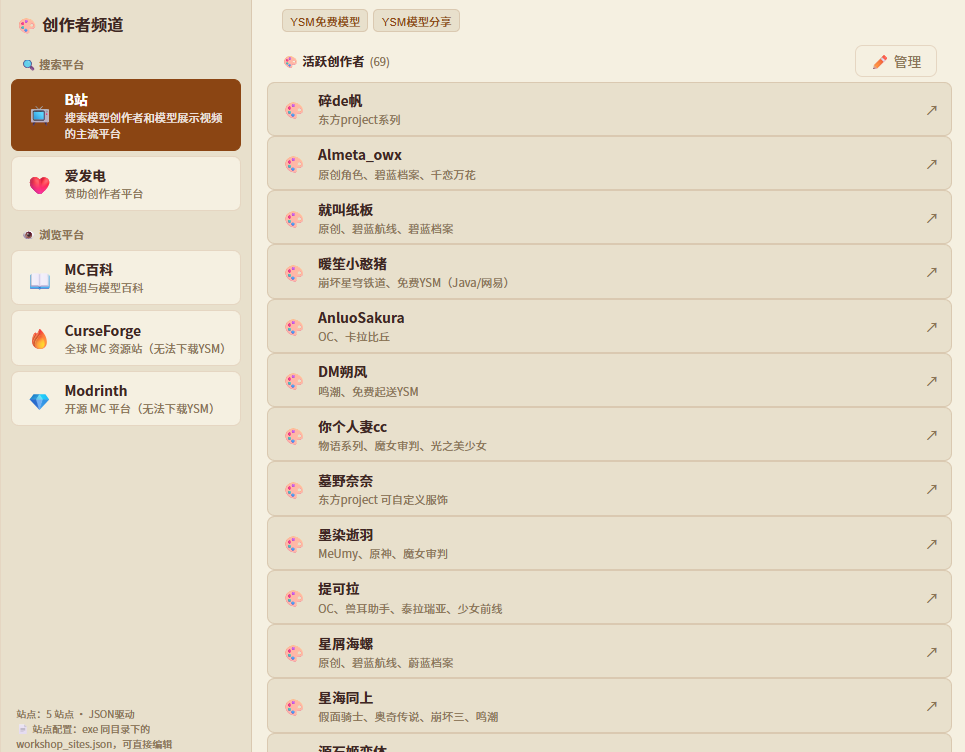
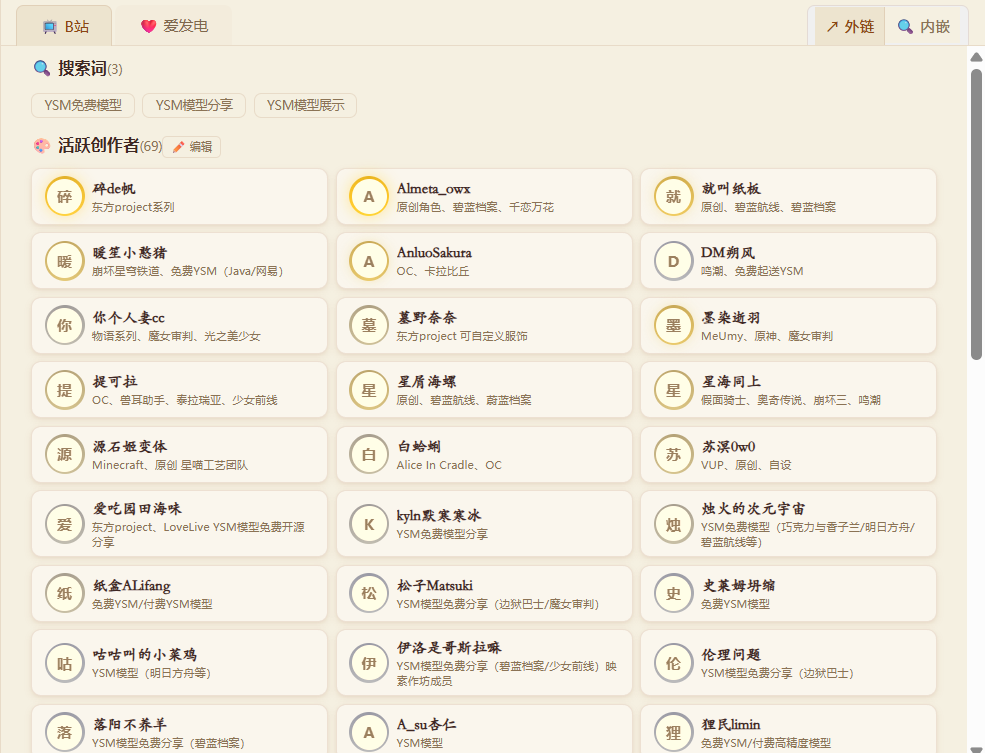
1.4.5

diff --git a/frontend/js/components/app-content/workshop-site-view.js b/frontend/js/components/app-content/workshop-site-view.js
@@ -92,28 +92,41 @@ export function renderSiteView(site, ctx) {
     parts.push(
       '<div style="display:flex;flex-wrap:wrap;gap:6px;width:100%">' +
         creators
-          .map((cr) => {
+          .map((cr, _, arr) => {
             const isGitHub = cr.type && cr.type.includes("github");
             const repoParts = isGitHub ? cr.name.split("/") : null;
             const hasRepo = isGitHub && repoParts && repoParts.length >= 2;
             const authorCount = authorCountMap[cr.name] || 0;
-            const avatarCls =
-              authorCount >= 5
-                ? " cr-avatar-gold"
-                : authorCount >= 2
-                  ? " cr-avatar-silver"
-                  : "";
+            // 渐变边框：饱和度随作品数变化
+            const maxCount = Math.max(
+              1,
+              ...arr.map((c) => authorCountMap[c.name] || 0),
+            );
+            const ratio =
+              maxCount > 0 ? Math.min(authorCount / maxCount, 1) : 0;
+            const lerp = (a, b, t) => Math.round(a + (b - a) * t);
+            const r = lerp(168, 240, ratio); // A8→F0
+            const g = lerp(168, 192, ratio); // A8→C0
+            const b = lerp(168, 48, ratio); // A8→30
+            const borderGrad = `conic-gradient(from 0deg, rgb(${r - 30},${g - 30},${b - 20}), rgb(${r},${g},${b}) 180deg, rgb(${r - 30},${g - 30},${b - 20}))`;
+            const glow =
+              ratio > 0.5
+                ? `0 0 ${6 + ratio * 6}px rgba(${r},${g},${b},${0.2 + ratio * 0.3})`
+                : "none";
             return (
               '<div class="gh-card" style="min-width:200px;max-width:280px;flex:1 1 200px;cursor:pointer" data-name="' +
               esc(cr.name) +
               '" title="搜索: ' +
               esc(cr.name) +
               '">' +
-              '<div class="cr-avatar' +
-              avatarCls +
+              '<div class="cr-avatar-wrap" style="background:' +
+              borderGrad +
+              ";border-radius:50%;padding:2px;display:inline-flex;flex-shrink:0;box-shadow:" +
+              glow +
               '">' +
+              '<div class="cr-avatar" style="border:none;box-shadow:none;width:28px;height:28px;font-size:12px">' +
               (cr.name ? esc(cr.name.charAt(0)).toUpperCase() : "?") +
-              "</div>" +
+              "</div></div>" +
               '<div class="gh-card-body">' +
               '<div class="gh-card-label name">' +
               esc(cr.name) +

diff --git a/frontend/js/components/app-content/content-css.js b/frontend/js/components/app-content/content-css.js
@@ -289,12 +289,13 @@ export const contentCSS = `
 .gh-card.active { border-color:var(--accent); background:var(--accent); color:#fff; box-shadow:var(--card-shadow-hover, none); }
 .gh-card .name { font-size:var(--fs-md); font-weight:var(--fw-bold); color:var(--txt); font-family:var(--font-display); overflow:hidden;text-overflow:ellipsis;white-space:nowrap; }
 .gh-card .name + .meta { margin-top:1px; font-size:var(--fs-xs); color:var(--muted); }
-.cr-avatar { width:32px;height:32px;border-radius:50%;flex-shrink:0;display:flex;align-items:center;justify-content:center;font-size:13px;font-weight:700;color:#8b7355;background:#ede4cf;border:2px solid #d4c5a9;transition:all .25s ease; }
-.cr-avatar-gold { border-color:#d4a017;box-shadow:0 0 6px rgba(212,160,23,.3); }
-.cr-avatar-silver { border-color:#a8a8a8;box-shadow:0 0 4px rgba(168,168,168,.2); }
+.cr-avatar { width:28px;height:28px;border-radius:50%;flex-shrink:0;display:flex;align-items:center;justify-content:center;font-size:12px;font-weight:700;color:#8b7355;background:#ede4cf;transition:all .25s ease; }
+.cr-avatar-wrap { display:inline-flex;flex-shrink:0;border-radius:50%;padding:2px;transition:all .25s ease;animation:breathe 3s ease-in-out infinite;will-change:filter; }
+@keyframes breathe { 0%,100%{filter:brightness(1)} 50%{filter:brightness(1.18)} }
+@keyframes breathe-subtle { 0%,100%{filter:brightness(1)} 50%{filter:brightness(1.1)} }
+.health-ring { animation:breathe-subtle 4s ease-in-out infinite;will-change:filter; }
 .gh-card:hover .cr-avatar { transform:rotate(-8deg) scale(1.05); }
-.gh-card:hover .cr-avatar-gold { border-color:#f0c030;box-shadow:0 0 12px rgba(212,160,23,.4); }
-.gh-card:hover .cr-avatar-silver { border-color:#c0c0c0;box-shadow:0 0 8px rgba(168,168,168,.3); }
+.gh-card:hover .cr-avatar-wrap { transform:rotate(-4deg) scale(1.08); }
 .gh-card-icon { font-size:16px; width:24px; text-align:center; flex-shrink:0; }
 .gh-card-body { flex:1; min-width:0; }
 .gh-card-label { font-size:var(--fs-base); font-weight:600; color:var(--txt); }
@@ -452,7 +453,7 @@ export const contentCSS = `
 .gh-cancel-btn { width:20px; height:20px; border-radius:50%; border:none; background:rgba(128,128,128,.15); color:var(--muted); cursor:pointer; font-size:var(--fs-base); flex-shrink:0; display:flex; align-items:center; justify-content:center; transition:background .15s; }
 .gh-cancel-btn:hover { background:rgba(128,128,128,.3); }
 .gh-progress-bar-wrap { margin-top:3px; height:4px; border-radius:2px; background:var(--bd); overflow:hidden; }
-.gh-progress-fill { height:100%; width:0%; border-radius:2px; background:var(--accent); transition:width .2s; box-shadow:0 0 4px var(--accent); }
+.gh-progress-fill { height:100%; width:0%; border-radius:2px; background:var(--accent); transition:width .2s; box-shadow:0 0 4px var(--accent); animation:breathe-subtle 4s ease-in-out infinite;will-change:filter,box-shadow; }
 .gh-progress-box { padding:24px 12px; text-align:center; }
 .gh-progress-label { font-size:var(--fs-sm); color:var(--muted); margin-bottom:8px; }
 `;

diff --git a/README-the project's development journey.md b/README-the project's development journey.md
@@ -14,7 +14,7 @@
 | [第一回](#第一回--appgo-的烦恼)     | app.go 的烦恼       | Go Binding 入口 shutdown panic      |
 | [第二回](#第二回--事件总线的密信)   | 事件总线的密信      | `data-name` vs `data-path` 路径分离 |
 | [第三回](#第三回--影子内阁的阴谋)   | 影子内阁的阴谋      | ESM 统一 + `public/js/` 旧副本混战  |
-| [第四回](#第四回--ban隐之谜)     | .ban 封印之谜       | 隐藏开关的字段名歧义                |
+| [第四回](#第四回--ban隐之谜)        | .ban 封印之谜       | 隐藏开关的字段名歧义                |
 | [第五回](#第五回--老黄牛的坚守)     | 老黄牛的坚守        | `ImportModelFile` 不覆盖的重名处理  |
 | [第六回](#第六回--硬链接的异地恋)   | 硬链接的异地恋      | 硬链接 vs 复制安装的边界逻辑        |
 | [第七回](#第七回--文件夹开光的悖论) | 文件夹开光的悖论    | 文件夹导入 `CreateDir` 初始化时机   |
@@ -2008,6 +2008,186 @@ YSM 头部解析修复 + 同步状态修复 + 预设搜索。
 明天呢？
 
 明天——谁知道呢。但我们已经把今天的教训写下来了。
+
+---
+
+### 第九章 · 卡牌大师
+
+| 章节                                    | 标题               | 对应真实事件                                |
+| --------------------------------------- | ------------------ | ------------------------------------------- |
+| [第四十回](#第四十回--css-变量迷踪)     | CSS 变量迷踪       | `adoptedStyleSheets` 不继承 `var(--accent)` |
+| [第四十一回](#第四十一回--卡牌大师)     | 卡牌大师           | 设置页全面卡片化                            |
+| [第四十二回](#第四十二回--关于页的诞生) | 关于页的诞生       | 全新的「ℹ️ 关于」标签页                     |
+| [第四十三回](#第四十三回--按钮的新衣)   | 按钮的新衣         | `.btn` CSS 类体系 + 主题色统一              |
+| [后记九](#后记九--让设置页不再是仓库)   | 让设置页不再是仓库 | v1.4.5 封板                                 |
+
+---
+
+## 第四十回 · CSS 变量迷踪
+
+**对应真实事件**：2026-06-11，`adoptedStyleSheets` 中 `var(--accent)` 不继承
+
+事情要从一个简单的需求说起——给按钮上色。
+
+"按钮没有主题色。"用户说。
+
+这是个合理的需求。按钮用的是浏览器默认样式，灰色背景、黑色文字，放在赛博霓虹主题里像一块补丁。只需要加一行 CSS：
+
+```css
+.btn.accent {
+  color: var(--accent);
+}
+```
+
+变数出在 `var(--accent)` 上。
+
+在前端世界里，CSS 自定义属性（Custom Properties）会沿着 DOM 树自然继承。你在 `:root` 上定义 `--accent: #66d9ef`，子元素里的 `var(--accent)` 就能取到这个值。这是 CSS 规范写了的事情。
+
+但"规范写了"和"浏览器做到了"之间，隔着一层 Shadow DOM。
+
+我们的应用用了 Web Components + Shadow DOM，并且用了 `adoptedStyleSheets`——这是 Chrome 73 引入的新 API，允许 JavaScript 直接把一个 CSSStyleSheet 对象关联到 Shadow Root 上，比传统的 `<style>` 标签更高效。
+
+高效是高效，但它有一个致命的坑：**`adoptedStyleSheets` 里的 `var()` 不继承文档的 CSS 自定义属性**。
+
+至少在这个项目依赖的 WebView2 版本里是这样。
+
+我花了将近两个小时折腾这件事。先试了 CSS 类选择器（`.hdr-btn.accent { color: var(--accent); }`），不行。又试了内联样式（`style="color:var(--accent)"`），也不行。按钮在所有主题下都显示同一副模样。
+
+"同一个 Bug，不同的 CSS 语法，同一个结果。"
+
+最终还是回到 CSS 最朴素的方案：**硬编码 + `:host-context()` 主题适配**。
+
+```css
+.hdr-btn.accent {
+  background: #7c83ff33;
+  color: #66d9ef;
+  border-color: #7c83ff55;
+}
+:host-context(.theme-warm) .hdr-btn.accent {
+  color: #8b4513;
+}
+:host-context(.theme-pro) .hdr-btn.accent {
+  color: #ffffff;
+}
+```
+
+`#66d9ef` 是赛博主题的青色，`#8b4513` 是温暖主题的木色，`#ffffff` 是极简主题的白色。硬编码虽然不优雅，但——它工作。
+
+而且这是一个有趣的发现：**有时候最"正确"的方案（CSS 变量 + adoptedStyleSheets）反而不如最"朴素"的方案（硬编码）可靠**。Web 标准很美，但浏览器的实现总是慢标准一步。
+
+## 第四十一回 · 卡牌大师
+
+**对应真实事件**：2026-06-11，设置页全面卡片化设计
+
+修复完按钮颜色后，用户把目光投向了设置页。
+
+"🔗 存储策略的内容其实很少，能不能做成双栏卡片？"用户问。
+
+我看了看代码。确实——链接模式的三选一 radio 按钮加上镜像源的下拉菜单，各自占了一整行，中间隔着一个标题。上下都是空白。
+
+"左边放存储策略，右边放下载镜像源。"
+
+这个想法很简单：在一个 `display: flex` 容器里，两个子元素各占一半。每个子元素用一个带边框的圆角卡片包裹：
+
+```html
+<div style="display:flex;gap:12px">
+  <div
+    style="flex:1;background:var(--surf);border:1px solid var(--bd);border-radius:8px;padding:10px 14px"
+  >
+    ...卡片内容...
+  </div>
+</div>
+```
+
+用户看了很满意，接着要求："📐 字体与布局也做成三栏卡片。"
+
+于是基准字号、创作者字体、卡片密度三个下拉菜单并排成了三列。每个卡片有独立的小标题，下面的提示文字也精简了。
+
+"🔗 链接模式也改成下拉菜单吧。"用户说。
+
+原本的 radio 横向排列改成了下拉菜单，和镜像源的选择器保持了一致。提示文字随选项切换。
+
+然后用户又说："链接模式的 switch 弹窗也去掉吧，自动执行，右侧加一个手动按钮。"
+
+于是 `modalConfirm` 被扫地出门。**降低强制弹窗数**——用户的原话是一个好的设计原则。
+
+## 第四十二回 · 关于页的诞生
+
+**对应真实事件**：2026-06-11，全新的 ℹ️ 关于 标签页
+
+"设置页，新增 ℹ️ 关于 界面，将之前的描述移植入此界面。"
+
+之前的"关于"信息蜷缩在基础设置页的最底部——版本号、项目描述、技术栈、灵感来源，全部挤在一个角落里，像一只流浪猫缩在纸箱角落。
+
+现在它有了自己的标签页。
+
+"你觉得目前的介绍好吗？"用户问。
+
+我诚实地说不好。原来的描述"类似 Mod Organizer 2 的 Minecraft YSM 模型管理器"太硬核了——MO2 是上古卷轴的 MOD 管理器，MC 玩家不一定认识。应该先说做什么，再说什么像什么。
+
+改成了：
+
+> 像 Steam 创意工坊一样，管理你的 Minecraft YSM 模型。导入、预览、分类、同步到整合包，一站完成。
+
+这个描述后来也同步到了 README 的开头。
+
+关于页的最后一栏是"快速上手"，五步走完就能从零到一。新用户不再需要翻文档找教程了。
+
+## 第四十三回 · 按钮的新衣
+
+**对应真实事件**：2026-06-11，`.btn` CSS 类体系 + 全按钮字号统一
+
+"🗑️ 清空 变得非常小了。"
+
+我没有改过那个按钮的字号——我只把 `font-size:9px` 换成了 `font-size:var(--fs-xs)`，而 `--fs-xs` 就是 9px。
+
+但问题不是字号变了，而是**其他按钮变大了**。
+
+在添加 `.btn` CSS 基类之前，所有按钮都各自为政：`font-size:9px`、`font-size:10px`、什么都没有（走浏览器默认 ~13px）。差异被混乱掩盖了。
+
+一旦 `.btn` 基类统一设置 `font-size:var(--fs-base)=11px`，那些还残留着 `font-size:var(--fs-xs)=9px` 内联样式的按钮就显眼地小了。
+
+但 `padding:1px 6px` 才是真正的罪魁祸首。字号跟上了，但上下只有 1px 的 padding 让按钮看起来像一条线。改到 `padding:2px 8px` 后，视觉大小终于和兄弟按钮一致了。
+
+然后用户又发现了一串问题：
+
+"⬇️ 安装缺失 (172)、⬇️ 安装——都先不要设置 ⬇️ 图标，就纯文本描述。"
+
+"安装缺失 (172) 改为 安装 (172) 吧。"
+
+那天我们移除了几乎所有按钮上的 ⬇️ 图标。不是因为图标不好——是因为当图标本身成为视觉噪音时，就失去了意义。
+
+## 后记九 · 让设置页不再是仓库
+
+现在是 2026 年 6 月 11 日，晚上。
+
+从早上 9 点多断断续续工作到现在，大概十个小时。没有七十二小时那么壮烈——只是一个普通的开发日。
+
+但这一天完成的事情不少。
+
+**上午**：修复了 PowerShell 扩展的重启崩溃问题，顺手把字号调高了一轮。
+
+**中午**：按钮主题色修复，遇到了 `adoptedStyleSheets` + CSS 变量的迷踪 Bug。
+
+**下午**：设置页全面卡片化——存储策略 + 镜像源双栏并排，字体与布局三栏并排，链接模式从 radio 改为下拉菜单，镜像源切换带详细提示。关于页面从设置页底部的一个角落成长为独立的华美标签页。
+
+**傍晚**：拖拽导入导航修复，模式切换开关 pill 式改造并移到右侧。
+
+**晚上**：发版 v1.4.5。
+
+如果说前几章的故事是"Bug 怎么修"，这一章的故事更像是"UI 怎么做"。
+
+结论是：**好的 UI 不是加东西，而是重新排列**。
+
+设置页的数据没有变。路径配置还是那些路径配置，链接模式还是那三种，镜像源还是那三个。但我们把信息分组了、用卡片区隔了、让视觉有了层次。
+
+就像整理房间——不是买新家具，而是把椅子从走廊搬回书桌前。
+
+这就是 v1.4.5 的全部。
+
+"让设置页不再是代码的仓库，而是用户的工具柜。"
+
+——**全文完**（暂时）
 
 _—第八章完—_
 

diff --git a/docs/release-notes/v1.4.5-compare.md b/docs/release-notes/v1.4.5-compare.md
@@ -2,26 +2,26 @@
 
 ## 文件变更
 
-| 文件 | 改动类型 | 说明 |
-|------|----------|------|
-| `frontend/js/components/app-content/tpl.js` | 重构 | 设置页三标签（basic/ui/about）；存储策略+镜像卡片化；字体布局三栏卡片；关于页彻底重写 |
-| `frontend/js/components/app-content/content-css.js` | 修改 | 硬编码 accent 色值 + `:host-context` 主题适配；`.btn`/`.btn.accent`/`.btn.danger` 样式；pill 开关样式；ws-back 等按钮统一 |
-| `frontend/js/components/app-content/index.js` | 修改 | `_initSettings` 新增 `"about"` tab；`repo:switch-tab` 全局监听；导航缓存优化 |
-| `frontend/js/components/app-content/workshop-settings.js` | 修改 | 链接模式 radio→select；`modalConfirm` 移除；自动 relink + 重新应用按钮；镜像源提示切换 |
-| `frontend/js/components/app-content/workshop-site-view.js` | 修改 | 按钮样式类名统一 |
-| `frontend/js/core/handler-dnd.js` | 修改 | `"downloads"`→`"repository"` + 自动切导入标签 |
-| `frontend/js/components/app-tree-styles.js` | 修改 | `.hdr-btn.accent` 硬编码色值 + `:host-context` 主题适配 |
-| `frontend/js/components/app-preview/preview-css.js` | 修改 | `.btn.accent` 硬编码色值 + `:host-context` 主题适配 |
-| `frontend/js/components/app-preview/tpl.js` | 修改 | 按钮 font-size 硬编码清除 |
-| `frontend/js/components/app-preview/events.js` | 修改 | 暂无日志 font-size 硬编码清除 |
-| `frontend/js/components/app-sidebar/tpl.js` | 修改 | `⬇️ 安装缺失 (N)`→`安装 (N)`；`⬇️ 安装`→`安装` |
-| `frontend/js/components/app-sidebar/render.js` | 修改 | `⬇️ 安装`→`安装` |
-| `frontend/js/components/app-tree/authors.js` | 修改 | 按钮类名适配 |
-| `frontend/js/components/context-menu.js` | 修改 | 按钮类名适配 |
-| `frontend/js/features/import-queue.js` | 修改 | 暂无文件字号 `--fs-xs`→`--fs-sm` |
-| `frontend/js/features/oldest-models.js` | 修改 | 分区标题字号调高 |
-| `frontend/index.html` | 修改 | 导航默认页读取逻辑 |
-| `frontend/css/Design.md` | 修改 | 更新说明 |
-| `README.md` | 修改 | 开篇描述更新 |
-| `docs/plan-p7-multi-resource.md` | 修改 | 新增图标系统章节 |
-| `workshop_sites.json` | 修改 | 站点数据更新 |
+| 文件                                                       | 改动类型 | 说明                                                                                                                      |
+| ---------------------------------------------------------- | -------- | ------------------------------------------------------------------------------------------------------------------------- |
+| `frontend/js/components/app-content/tpl.js`                | 重构     | 设置页三标签（basic/ui/about）；存储策略+镜像卡片化；字体布局三栏卡片；关于页彻底重写                                     |
+| `frontend/js/components/app-content/content-css.js`        | 修改     | 硬编码 accent 色值 + `:host-context` 主题适配；`.btn`/`.btn.accent`/`.btn.danger` 样式；pill 开关样式；ws-back 等按钮统一 |
+| `frontend/js/components/app-content/index.js`              | 修改     | `_initSettings` 新增 `"about"` tab；`repo:switch-tab` 全局监听；导航缓存优化                                              |
+| `frontend/js/components/app-content/workshop-settings.js`  | 修改     | 链接模式 radio→select；`modalConfirm` 移除；自动 relink + 重新应用按钮；镜像源提示切换                                    |
+| `frontend/js/components/app-content/workshop-site-view.js` | 修改     | 按钮样式类名统一                                                                                                          |
+| `frontend/js/core/handler-dnd.js`                          | 修改     | `"downloads"`→`"repository"` + 自动切导入标签                                                                             |
+| `frontend/js/components/app-tree-styles.js`                | 修改     | `.hdr-btn.accent` 硬编码色值 + `:host-context` 主题适配                                                                   |
+| `frontend/js/components/app-preview/preview-css.js`        | 修改     | `.btn.accent` 硬编码色值 + `:host-context` 主题适配                                                                       |
+| `frontend/js/components/app-preview/tpl.js`                | 修改     | 按钮 font-size 硬编码清除                                                                                                 |
+| `frontend/js/components/app-preview/events.js`             | 修改     | 暂无日志 font-size 硬编码清除                                                                                             |
+| `frontend/js/components/app-sidebar/tpl.js`                | 修改     | `⬇️ 安装缺失 (N)`→`安装 (N)`；`⬇️ 安装`→`安装`                                                                            |
+| `frontend/js/components/app-sidebar/render.js`             | 修改     | `⬇️ 安装`→`安装`                                                                                                          |
+| `frontend/js/components/app-tree/authors.js`               | 修改     | 按钮类名适配                                                                                                              |
+| `frontend/js/components/context-menu.js`                   | 修改     | 按钮类名适配                                                                                                              |
+| `frontend/js/features/import-queue.js`                     | 修改     | 暂无文件字号 `--fs-xs`→`--fs-sm`                                                                                          |
+| `frontend/js/features/oldest-models.js`                    | 修改     | 分区标题字号调高                                                                                                          |
+| `frontend/index.html`                                      | 修改     | 导航默认页读取逻辑                                                                                                        |
+| `frontend/css/Design.md`                                   | 修改     | 更新说明                                                                                                                  |
+| `README.md`                                                | 修改     | 开篇描述更新                                                                                                              |
+| `docs/plan-p7-multi-resource.md`                           | 修改     | 新增图标系统章节                                                                                                          |
+| `workshop_sites.json`                                      | 修改     | 站点数据更新                                                                                                              |

diff --git a/docs/release-notes/v1.4.5.md b/docs/release-notes/v1.4.5.md
@@ -5,12 +5,14 @@
 ## 🎨 UI/UX 优化
 
 ### 设置页全面卡片化
+
 - 「存储策略 & 网络」改为双栏卡片并排，链接模式从 radio 改为下拉菜单
 - 「字体与布局」改为三栏卡片并排（基准字号 / 创作者字体 / 卡片密度）
 - 新增「ℹ️ 关于」独立标签页，卡片式展示项目介绍、技术栈、资源链接、快速上手、灵感来源
 - 下载镜像源切换时显示详细提示卡片（直连 / jsDelivr / GitHub API 各自说明）
 
 ### 字体与主题系统统一
+
 - 全面修复 `adoptedStyleSheets` 中 CSS 变量不继承的问题（`var(--accent)` 硬编码 + `:host-context()` 主题适配）
 - 补全 `.btn` 按钮系列 CSS 类（`.btn`、`.btn.accent`、`.btn.danger`），所有按钮统一主题色
 - 清除各处硬编码 `font-size`，改用 CSS 变量体系
@@ -18,6 +20,7 @@
 - 仓库元老页面各分区标题字号调高（📊 健康度、📅 月度活动、🎲 今日推荐等）
 
 ### 细节打磨
+
 - 创作者频道外链/内嵌切换改为 pill 式开关，移至 tab 栏右侧
 - 返回/浏览器打开按钮统一样式（`ws-back`、`cr-back-btn` 等）
 - 🗑️ 清空按钮 padding 修复，与 ✕ 按钮一致
@@ -27,20 +30,24 @@
 ## 🔧 功能改进
 
 ### 存储策略
+
 - 切换链接模式后**自动执行重新链接**，不再弹确认框
 - 新增「🔄 重新应用链接」按钮，可手动触发
 - 安装按钮文字简化：`⬇️ 安装缺失 (N)` → `安装 (N)`，`⬇️ 安装` → `安装`
 
 ### 拖拽导入
+
 - 修复从其他页面拖拽文件导航到错误界面（`"downloads"` → `"repository"` + 自动切换到导入标签）
 - 新增 `repo:switch-tab` 全局事件机制
 
 ### 关于页面
+
 - 重新组织为卡片布局：定位介绍、技术栈、资源链接、快速上手、灵感来源
 - 新增「快速上手」指引（5 步），降低新用户门槛
 - 灵感来源增加详细关系描述，不再只是链接列表
 - 同步更新 README 开篇描述
 
 ## 📦 其他
+
 - 清理未使用的 `modalConfirm` import
 - 安装按钮图标清理（⬇️ 移除）